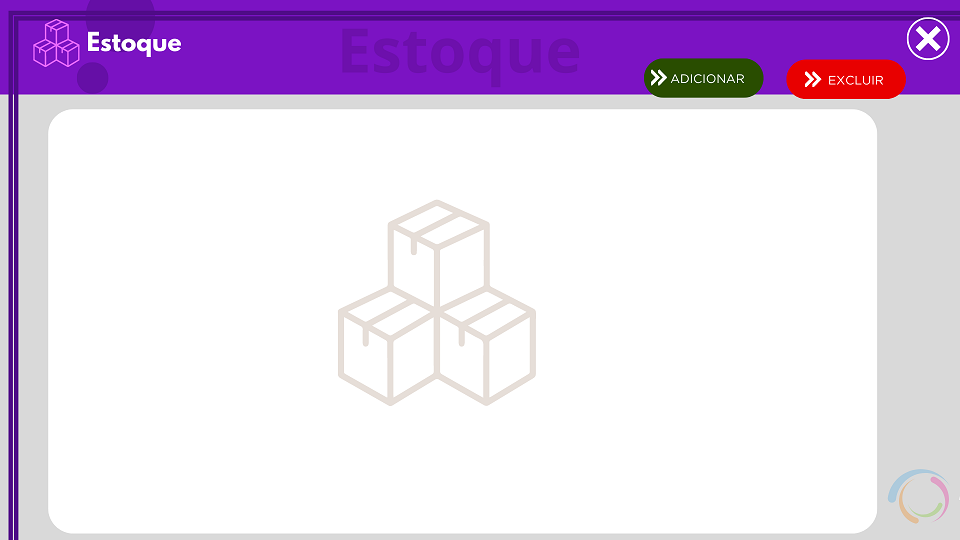
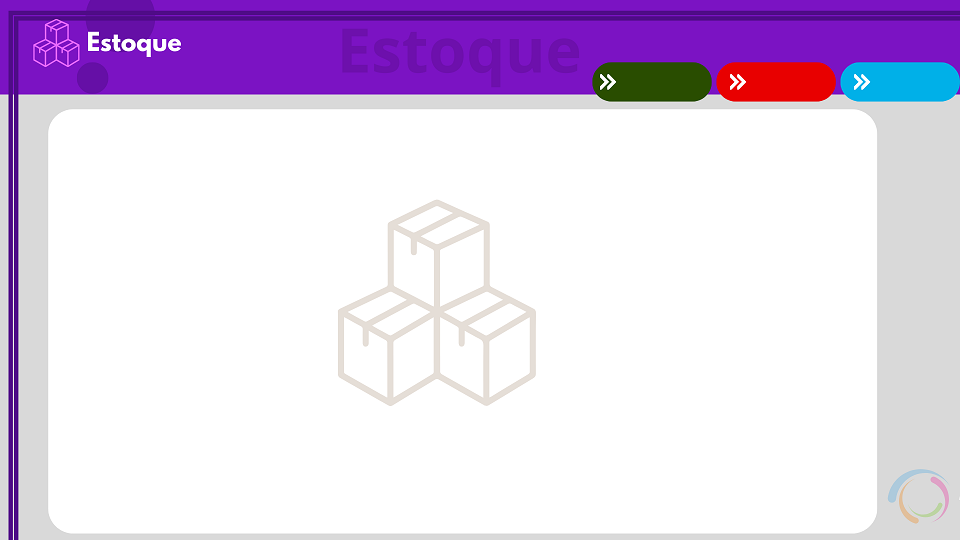
alterações 12/09

Changed region(s): [[0.5938, 0.0296, 1.0, 0.2074]]

diff --git a/sistema de estoque.py b/sistema de estoque.py
@@ -15,6 +15,15 @@ def conect():
         database='dados_usuario',
     )
     cursor = conexao.cursor()
+def conect2():
+    global conexao, cursor
+    conexao = mysql.connector.connect(
+        host='localhost',
+        user='root',
+        password='macaco123@3',
+        database='cadastroprodutos',
+    )
+    cursor = conexao.cursor()
 def titulo():
     print('*'*30)
     print('P.O.G.E.R.S')
@@ -24,7 +33,7 @@ def pular():
     print('*'*30)
 def imagem():
     
-    global imagem1,imagem2,imagem3,imagem4,imagem5,imagem6,imagem7,imagem8
+    global imagem1,imagem2,imagem3,imagem4,imagem5,imagem6,imagem7,imagem8,imagem9,imagem10
     imagem1=r'C:walpaper\tela_login.png'
     imagem2=r'C:walpaper\tela_home.png'
     imagem3=r'C:walpaper\tela_cadastro.png'
@@ -33,6 +42,8 @@ def imagem():
     imagem6=r'C:walpaper\tela_caixa.png'
     imagem7=r'C:walpaper\tela_config.png'
     imagem8=r'C:walpaper\tela_botao.png'
+    imagem9=r'C:walpaper\tela_excluir.png'
+    imagem10=r'C:walpaper\tela_cadprodutos.png'
 def main():
 #______________________________________________________MONTAGEM DA JANELA LOGIN_____________________________________________
     #criar a janela login
@@ -64,11 +75,16 @@ def main():
             main()
         # DEF VER ESTOQUE 
         def estoque():
+            conect2()
             global imagem4
-            janela2.destroy()
+        #________________________________________________MONTAGEM DA JANELA ESTOQUE__________________________________________________   
+            try:
+                janela2.destroy()
+            except:
+                print('janela já destruida')
             print( 'ESTOQUE')
             pular()
-        #________________________________________________MONTAGEM DA JANELA ESTOQUE__________________________________________________
+        
             #criar a janela de estoque 
             janela_e=tk.Tk()
             janela_e.title('Estoque')
@@ -76,8 +92,264 @@ def main():
             def voltar_estoque():
                 janela_e.destroy()
                 home()
+
+            def excluir():
+                global imagem9
+                janela_e.destroy()
+                print( 'EXCLUIR ESTOQUE')
+                pular()
+            #________________________________________________MONTAGEM DA JANELA EXCLUIR DE ESTOQUE____________________________________
+                #criar a janela de estoque 
+                janela_x=tk.Tk()
+                janela_x.title('Excluir estoque')
+             #___________________________________________________CRIANDO QUARTA DEF'S____________________________________________________
+                def voltar_estoquex():
+                    janela_x.destroy()
+                    estoque()
+                def excluir_produtos():
+                    codigo = entry_cod.get()
+                    if not codigo:
+                        messagebox.showerror("Erro", "O campo Código do Produto é obrigatório.")
+                        return
+
+                    comando = f"DELETE FROM cadastroprodutos WHERE codigoproduto = {codigo}"
+
+                    try:
+                        cursor.execute(comando)
+                        conexao.commit()
+                        messagebox.showinfo("Sucesso", "Produto excluído com sucesso!")
+                        
+                    except Exception as e:
+                        conexao.rollback()
+                        messagebox.showerror("Erro", f"Erro ao excluir o produto: {str(e)}")
+
+                #_____________________________________________________ADICIONANDO WIDGETS NA TELA EXCLUIR ESTOQUE___________________________
+                #carregando image 9
+                carregar_imagem9=Image.open(imagem9)
+                carregar_imagem9.thumbnail((max_width, max_height))
+                lendo_imagem9=ImageTk.PhotoImage(carregar_imagem9)
+
+                #CRIAR LABEL PRINCIPAL
+                lab9=tk.Label(janela_x, image=lendo_imagem9)
+                lab9.image=lendo_imagem9
+                lab9.pack()
+                
+                #CRIAR ENTRY'S
+                entry_cod=tk.Entry(janela_x,highlightthickness=0)
+                entry_cod.place( x=220, y=295)
+                print(f'O codigo cadastrado foi={entry_cod}')
+
+                entry_prodx=tk.Entry(janela_x,highlightthickness=0)
+                entry_prodx.place( x=150, y=200)
+                print(f'O produto excluido foi={entry_prodx}')
+
+                entry_categ=tk.Entry(janela_x,highlightthickness=0)
+                entry_categ.place( x=150, y=400)
+                print(f'A categoria excluida foi={entry_categ}')
+
+                #CRIANDO BUTTON'S
+                bot_voltare=tk.Button(janela_x, command=voltar_estoquex,text='< Voltar', borderwidth=0, bg='#7c14c4')
+                bot_voltare.place( x=880, y=30,width= 80, height=50 )
+
+                bot_excluir=tk.Button(janela_x, command=excluir_produtos,text='Excluir', borderwidth=0, bg='white')
+                bot_excluir.place( x=400, y=120,width=60, height=30 )
+           
             def adicionar_e():
-                titulo()
+                global imagem10
+                janela_e.destroy()
+                print( 'CADASTRAR ESTOQUE')
+                pular()
+            #________________________________________________MONTAGEM DA JANELA CADASTRO DE ESTOQUE____________________________________
+                #criar a janela de estoque 
+                janela_c=tk.Tk()
+                janela_c.title('Cadastrar estoque')
+            #___________________________________________________CRIANDO QUARTA DEF'S____________________________________________________
+                def voltar_estoquec():
+                    janela_c.destroy()
+                    estoque()
+
+                def cadastrar_p():
+                    codigo=entry_cod.get()
+                    print(codigo)
+                    produto=entry_prod.get()
+                    prec_c=float(entry_precc.get())
+                    prec_v=float(entry_precov.get())
+                    quant=int(entry_quant.get())
+                    categ=entry_categ.get()
+                    
+                    try:
+                    #ADICIONAR BANCO DE DADOS
+                        comando= f'INSERT INTO cadastroprodutos(codigoproduto,produto,precocompra,precovenda,quantidade,categoria) VALUES("{codigo}","{produto}",{prec_c},{prec_v},{quant},"{categ}")'
+                        cursor.execute(comando) 
+                        conexao.commit()
+                        messagebox.showinfo("Sucesso", "Produto cadastrado com sucesso!")
+                        
+                    except Exception as e:
+                        conexao.rollback()
+                        messagebox.showerror("Erro", f"Erro ao cadastrar o produto: {str(e)}")
+
+            #_____________________________________________________ADICIONANDO WIDGETS NA TELA CADASTRAR ESTOQUE___________________________________________
+                    #carregando image 10
+                    carregar_imagem10=Image.open(imagem10)
+                    carregar_imagem10.thumbnail((max_width, max_height))
+                    lendo_imagem10=ImageTk.PhotoImage(carregar_imagem10)
+
+                    #CRIAR LABEL PRINCIPAL
+                    lab10=tk.Label(janela_c, image=lendo_imagem10)
+                    lab10.image=lendo_imagem10
+                    lab10.pack()
+
+             #_____________________________________________________ADICIONANDO WIDGETS NA TELA CADASTRAR ESTOQUE___________________________
+             #carregando image 10
+                carregar_imagem10=Image.open(imagem10)
+                carregar_imagem10.thumbnail((max_width, max_height))
+                lendo_imagem10=ImageTk.PhotoImage(carregar_imagem10)
+
+                #CRIAR LABEL PRINCIPAL
+                lab10=tk.Label(janela_c, image=lendo_imagem10)
+                lab10.image=lendo_imagem10
+                lab10.pack()
+
+                #CRIAR ENTRY'S
+                entry_cod=tk.Entry(janela_c,highlightthickness=0)
+                entry_cod.place( x=560, y=200)
+                print(f'O codigo cadastrado foi={entry_cod}')
+
+                entry_prod=tk.Entry(janela_c,highlightthickness=0)
+                entry_prod.place( x=150, y=200)
+                print(f'O produto cadastrado foi={entry_prod}')
+
+                entry_precc=tk.Entry(janela_c,highlightthickness=0)
+                entry_precc.place( x=210, y=300)
+                print(f'O preço cadastrado foi={entry_precc}')
+
+                entry_precov=tk.Entry(janela_c,highlightthickness=0)
+                entry_precov.place( x=560, y=300)
+                print(f'O preço de venda cadastrado foi={entry_precov}')
+
+                entry_quant=tk.Entry(janela_c,highlightthickness=0)
+                entry_quant.place( x=560, y=400)
+                print(f'O quantidade cadastrado foi={entry_quant}')
+
+                entry_categ=tk.Entry(janela_c,highlightthickness=0)
+                entry_categ.place( x=150, y=400)
+                print(f'O categoria cadastrado foi={entry_categ}')
+
+                #CRIANDO BUTTON'S
+                bot_voltare=tk.Button(janela_c, command=voltar_estoquec,text='< Voltar', borderwidth=0, bg='#7c14c4')
+                bot_voltare.place( x=880, y=30,width= 80, height=50 )
+
+                bot_salvar=tk.Button(janela_c, command=cadastrar_p,text='salvar', borderwidth=0, bg='white')
+                bot_salvar.place( x=780, y=115,width= 70, height=40 )
+        
+            def atualizar():
+                global imagem10
+                janela_e.destroy()
+                print( 'ATUALIZAR ESTOQUE')
+                pular()
+            #________________________________________________MONTAGEM DA JANELA CADASTRO DE ESTOQUE____________________________________
+                #criar a janela de estoque 
+                janela_a=tk.Tk()
+                janela_a.title('Atualizar estoque')
+            #___________________________________________________CRIANDO QUARTA DEF'S____________________________________________________
+                def atualizar_a():
+                    codigo=entry_cod.get()
+                    if not codigo:
+                        messagebox.showerror("Erro", "O campo Código do Produto é obrigatório.")
+                        return
+
+                    produto = entry_prod.get() if entry_prod.get() else None
+                    preco_v = entry_precov.get() if entry_precov.get() else None
+                    preco_c = entry_precc.get() if entry_precc.get() else None
+                    quant = entry_quant.get() if entry_quant.get() else None
+                    categ = entry_categ.get() if entry_categ.get() else None
+                
+                    try:
+                        if quant:
+                            qtd = int(quant)  
+                        else:
+                            qtd = None
+
+                        comando = f"UPDATE cadastroprodutos SET "
+                        if produto:
+                            comando += f"produto = '{produto}', "
+                        if preco_v:
+                            comando += f"precovenda = {preco_v}, "
+                        if preco_c:
+                            comando += f"precocompra = {preco_c}, "
+                        if qtd is not None:
+                            comando += f"quantidade = {qtd}, "
+                        if categ:
+                            comando += f"categoria = '{categ}', "
+
+                        comando = comando.rstrip(", ")
+
+                        comando += f" WHERE codigoproduto = {codigo}"
+
+                        cursor.execute(comando)
+                        conexao.commit()
+
+                        entry_prod.delete(0, tk.END)
+                        entry_cod.delete(0, tk.END)
+                        entry_precov.delete(0, tk.END)
+                        entry_precc.delete(0, tk.END)
+                        entry_quant.delete(0, tk.END)
+                        entry_categ.delete(0, tk.END)
+
+                        messagebox.showinfo("Sucesso", "Produto atualizado com sucesso!")
+
+                    except Exception as e:
+                        conexao.rollback()
+                        messagebox.showerror("Erro", f"Erro ao atualizar o produto: {str(e)}")
+
+
+                def voltar_estoquea():
+                    janela_a.destroy()
+                    estoque()
+
+            #_____________________________________________________ADICIONANDO WIDGETS NA TELA CADASTRAR ESTOQUE___________________________
+             #carregando image 10
+                carregar_imagem10=Image.open(imagem10)
+                carregar_imagem10.thumbnail((max_width, max_height))
+                lendo_imagem10=ImageTk.PhotoImage(carregar_imagem10)
+
+                #CRIAR LABEL PRINCIPAL
+                lab10=tk.Label(janela_a, image=lendo_imagem10)
+                lab10.image=lendo_imagem10
+                lab10.pack()
+
+                #CRIAR ENTRY'S
+                entry_cod=tk.Entry(janela_a,highlightthickness=0)
+                entry_cod.place( x=560, y=200)
+                print(f'O codigo atualizado foi={entry_cod}')
+
+                entry_prod=tk.Entry(janela_a,highlightthickness=0)
+                entry_prod.place( x=150, y=200)
+                print(f'O produto atualizad foi={entry_prod}')
+
+                entry_precc=tk.Entry(janela_a,highlightthickness=0)
+                entry_precc.place( x=210, y=300)
+                print(f'O preço atualizar foi={entry_precc}')
+
+                entry_precov=tk.Entry(janela_a,highlightthickness=0)
+                entry_precov.place( x=560, y=300)
+                print(f'O preço de venda atualizado foi={entry_precov}')
+
+                entry_quant=tk.Entry(janela_a,highlightthickness=0)
+                entry_quant.place( x=560, y=400)
+                print(f'O quantidade atualizado foi={entry_quant}')
+
+                entry_categ=tk.Entry(janela_a,highlightthickness=0)
+                entry_categ.place( x=150, y=400)
+                print(f'O categoria atualizardofoi={entry_categ}')
+
+                #CRIANDO BUTTON'S
+                bot_voltare=tk.Button(janela_a, command=voltar_estoquea,text='< Voltar', borderwidth=0, bg='#7c14c4')
+                bot_voltare.place( x=880, y=30,width= 80, height=50 )
+
+                bot_salvar=tk.Button(janela_a, command=atualizar_a,text='Atualizar', borderwidth=0, bg='white')
+                bot_salvar.place( x=780, y=115,width= 70, height=40 )
+
          #_____________________________________________________ADICIONANDO WIDGETS NA TELA ESTOQUE___________________________________________
             #carregando image 4
             carregar_imagem4=Image.open(imagem4)
@@ -91,7 +363,16 @@ def main():
 
             #CRIANDO BUTTON'S
             bot_voltare=tk.Button(janela_e, command=voltar_estoque,text='< Voltar', borderwidth=0, bg='#7c14c4')
-            bot_voltare.place( x=890, y=20,width= 90, height=50 )
+            bot_voltare.place( x=880, y=25,width=60, height=30 )
+
+            bot_excluir=tk.Button(janela_e, command=excluir,text='Excluir', borderwidth=0, bg='#ea080e')
+            bot_excluir.place( x=750, y=68,width= 60, height=30 )
+            
+            bot_adicionar=tk.Button(janela_e, command=adicionar_e,text='Adicionar', borderwidth=0, bg='#2b4b05')
+            bot_adicionar.place( x=630, y=68,width=60, height=30 )
+
+            bot_atualizar=tk.Button(janela_e, command=atualizar,text='Atualizar', borderwidth=0, bg='#19b5e5')
+            bot_atualizar.place( x=880, y=68,width=60, height=30 )
         #DEF PDV
         def vendas():
             global imagem6
@@ -164,6 +445,8 @@ def main():
             def voltar_loging():
                 janela_g.destroy()
                 home()
+            def atualizar_dados():
+                titulo()
         #_____________________________________________________ADICIONANDO WIDGETS NA TELA CONFIGURAÇÃO _____________________________________________
             #carregando image 7
             carregar_imagem7=Image.open(imagem7)
@@ -178,6 +461,22 @@ def main():
              #CRIAR BUTTON'S
             bot_voltarv=tk.Button(janela_g, command=voltar_loging,text='< Voltar', borderwidth=0, bg='#7c14c4')
             bot_voltarv.place( x=907, y=13,width= 50, height=50 )
+
+            bot_conta=tk.Button(janela_g)
+            bot_conta.place()
+
+            bot_gestao=tk.Button(janela_g)
+            bot_gestao.place()
+
+            bot_suporte=tk.Button(janela_g)
+            bot_suporte.place()
+
+            bot_not=tk.Button(janela_g)
+            bot_not.place()
+
+            bot_relat=tk.Button(janela_g)
+            bot_relat.place()
+
     #______________________________________________________ADICIONANDO WIDGETS NA TELA HOME_________________________________________
         #carregando image 2
         carregar_imagem2=Image.open(imagem2)
